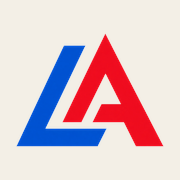
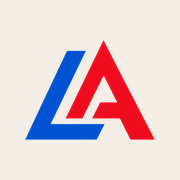
feat: rebrand site to Ledford Construction LLC
Replace public Associates lockups with Ledford Construction LLC,
install processed LC mark assets, and align header/footer colors
with the royal-blue and bold-red brand.

diff --git a/index.html b/index.html
@@ -3,17 +3,17 @@
 <head>
   <meta charset="utf-8" />
   <meta name="viewport" content="width=device-width, initial-scale=1, viewport-fit=cover" />
-  <title>Ledford &amp; Associates LLC | Commercial construction company since 1999</title>
+  <title>Ledford Construction LLC | Commercial construction company since 1999</title>
   <meta name="description" content="A commercial construction company since 1999. Metal stud framing, gypsum, acoustical ceilings, and thermal insulation." />
-  <link rel="icon" type="image/png" href="images/icon.png?v=2" />
-  <link rel="apple-touch-icon" href="images/apple-touch-icon.png" />
-  <meta property="og:title" content="Ledford &amp; Associates LLC | Commercial construction company since 1999" />
+  <link rel="icon" type="image/png" href="images/icon.png?v=5" />
+  <link rel="apple-touch-icon" href="images/apple-touch-icon.png?v=5" />
+  <meta property="og:title" content="Ledford Construction LLC | Commercial construction company since 1999" />
   <meta property="og:description" content="A commercial construction company since 1999. Metal stud framing, gypsum, acoustical ceilings, and thermal insulation." />
-  <meta property="og:image" content="images/icon.png?v=2" />
+  <meta property="og:image" content="images/icon.png?v=5" />
   <link rel="preconnect" href="https://fonts.googleapis.com" />
   <link rel="preconnect" href="https://fonts.gstatic.com" crossorigin />
-  <link href="https://fonts.googleapis.com/css2?family=Cormorant+Garamond:ital,wght@0,500;0,600;1,500&family=Outfit:wght@300;400;500;600&display=swap" rel="stylesheet" />
-  <link rel="stylesheet" href="styles.css?v=4" />
+  <link href="https://fonts.googleapis.com/css2?family=Cormorant+Garamond:ital,wght@0,500;0,600;1,500&family=Outfit:wght@300;400;500;600;700&display=swap" rel="stylesheet" />
+  <link rel="stylesheet" href="styles.css?v=5" />
 </head>
 <body>
 
@@ -24,9 +24,9 @@
       <a href="about.html">About</a>
       <a href="projects.html">Projects</a>
     </nav>
-    <a class="logo" href="index.html" aria-label="Ledford &amp; Associates home">
-      <img class="mark" src="images/icon.png?v=2" alt="" />
-      <span class="logo-text"><strong>Ledford</strong><em>&amp; Associates LLC</em></span>
+    <a class="logo" href="index.html" aria-label="Ledford Construction home">
+      <img class="mark" src="images/icon.png?v=5" alt="" />
+      <span class="logo-text"><strong>Ledford</strong><em>Construction LLC</em></span>
     </a>
     <div class="header-tools">
       <a class="header-phone" href="tel:+15722224219">(572) 222-4219</a>
@@ -67,7 +67,7 @@
         <h2>A contractor GCs can put on the schedule and leave there.</h2>
       </div>
       <div>
-        <p class="lead">Ledford &amp; Associates started with a small crew in Georgia and one job: install the work correctly, keep people safe, and finish when we said we would.</p>
+        <p class="lead">Ledford Construction started with a small crew in Georgia and one job: install the work correctly, keep people safe, and finish when we said we would.</p>
         <p>That is still the work. We are a bonded and insured commercial subcontractor for metal stud framing, gypsum, acoustical ceilings, and thermal insulation. Bonding capacity is $5 million single and $12 million aggregate. Current EMR is 0.87. The trades run together as one scope so the walls, board, ceilings, and insulation actually meet.</p>
         <p>We have installed in healthcare, retail, education, military, hospitality, and residential work. Leesburg is home. The jobs have always been commercial.</p>
       </div>
@@ -134,9 +134,9 @@
 <footer class="site-footer">
   <div class="wrap foot-grid">
     <div>
-      <a class="logo" href="index.html"><img class="mark" src="images/icon.png?v=2" alt="" /><span class="logo-text"><strong>Ledford</strong><em>&amp; Associates LLC</em></span></a>
+      <a class="logo" href="index.html"><img class="mark" src="images/icon.png?v=5" alt="" /><span class="logo-text"><strong>Ledford</strong><em>Construction LLC</em></span></a>
       <p style="margin-top:1rem;color:rgba(251,250,247,.7)">A commercial construction company since 1999. Metal framing, gypsum, ceilings, and insulation.</p>
-      <p class="footer-social"><a class="li-mark" href="https://www.linkedin.com/company/ledford-associates-llc/" target="_blank" rel="noopener noreferrer" aria-label="Ledford &amp; Associates on LinkedIn"><img src="images/linkedin.svg" width="28" height="28" alt="" /></a><a class="li-mark" href="https://www.facebook.com/share/1YXuvFNRWJ/" target="_blank" rel="noopener noreferrer" aria-label="Ledford &amp; Associates on Facebook"><img src="images/facebook.svg" width="28" height="28" alt="" /></a></p>
+      <p class="footer-social"><a class="li-mark" href="https://www.linkedin.com/company/ledford-associates-llc/" target="_blank" rel="noopener noreferrer" aria-label="Ledford Construction on LinkedIn"><img src="images/linkedin.svg" width="28" height="28" alt="" /></a><a class="li-mark" href="https://www.facebook.com/share/1YXuvFNRWJ/" target="_blank" rel="noopener noreferrer" aria-label="Ledford Construction on Facebook"><img src="images/facebook.svg" width="28" height="28" alt="" /></a></p>
     </div>
     <div>
       <h3 class="eyebrow" style="color:#e8b0a8">Georgia</h3>
@@ -152,7 +152,7 @@
     </div>
   </div>
   <div class="wrap legal">
-    <span>© 2026 Ledford &amp; Associates LLC. All rights reserved.</span>
+    <span>© 2026 Ledford Construction LLC. All rights reserved.</span>
     <span>Leesburg, Georgia</span>
   </div>
 </footer>

diff --git a/about.html b/about.html
@@ -3,17 +3,17 @@
 <head>
   <meta charset="utf-8" />
   <meta name="viewport" content="width=device-width, initial-scale=1, viewport-fit=cover" />
-  <title>About | Ledford &amp; Associates LLC</title>
-  <meta name="description" content="Professionals. Leaders. One team. Ledford &amp; Associates is a commercial subcontracting company led by President Lindy Ledford." />
-  <link rel="icon" type="image/png" href="images/icon.png?v=2" />
-  <link rel="apple-touch-icon" href="images/apple-touch-icon.png" />
-  <meta property="og:title" content="About | Ledford &amp; Associates LLC" />
-  <meta property="og:description" content="Professionals. Leaders. One team. Ledford &amp; Associates is a commercial subcontracting company led by President Lindy Ledford." />
-  <meta property="og:image" content="images/icon.png?v=2" />
+  <title>About | Ledford Construction LLC</title>
+  <meta name="description" content="Professionals. Leaders. One team. Ledford Construction is a commercial subcontracting company led by President Lindy Ledford." />
+  <link rel="icon" type="image/png" href="images/icon.png?v=5" />
+  <link rel="apple-touch-icon" href="images/apple-touch-icon.png?v=5" />
+  <meta property="og:title" content="About | Ledford Construction LLC" />
+  <meta property="og:description" content="Professionals. Leaders. One team. Ledford Construction is a commercial subcontracting company led by President Lindy Ledford." />
+  <meta property="og:image" content="images/icon.png?v=5" />
   <link rel="preconnect" href="https://fonts.googleapis.com" />
   <link rel="preconnect" href="https://fonts.gstatic.com" crossorigin />
-  <link href="https://fonts.googleapis.com/css2?family=Cormorant+Garamond:ital,wght@0,500;0,600;1,500&family=Outfit:wght@300;400;500;600&display=swap" rel="stylesheet" />
-  <link rel="stylesheet" href="styles.css?v=4" />
+  <link href="https://fonts.googleapis.com/css2?family=Cormorant+Garamond:ital,wght@0,500;0,600;1,500&family=Outfit:wght@300;400;500;600;700&display=swap" rel="stylesheet" />
+  <link rel="stylesheet" href="styles.css?v=5" />
 </head>
 <body>
 
@@ -24,9 +24,9 @@
       <a href="about.html" aria-current="page">About</a>
       <a href="projects.html">Projects</a>
     </nav>
-    <a class="logo" href="index.html" aria-label="Ledford &amp; Associates home">
-      <img class="mark" src="images/icon.png?v=2" alt="" />
-      <span class="logo-text"><strong>Ledford</strong><em>&amp; Associates LLC</em></span>
+    <a class="logo" href="index.html" aria-label="Ledford Construction home">
+      <img class="mark" src="images/icon.png?v=5" alt="" />
+      <span class="logo-text"><strong>Ledford</strong><em>Construction LLC</em></span>
     </a>
     <div class="header-tools">
       <a class="header-phone" href="tel:+15722224219">(572) 222-4219</a>
@@ -63,7 +63,7 @@
       <div>
         <p class="eyebrow">President</p>
         <h2>Lindy Ledford</h2>
-        <p>President of Ledford &amp; Associates LLC. Runs the company and the field from the Leesburg office.</p>
+        <p>President of Ledford Construction LLC. Runs the company and the field from the Leesburg office.</p>
       </div>
     </div>
   </section>
@@ -93,9 +93,9 @@
 <footer class="site-footer">
   <div class="wrap foot-grid">
     <div>
-      <a class="logo" href="index.html"><img class="mark" src="images/icon.png?v=2" alt="" /><span class="logo-text"><strong>Ledford</strong><em>&amp; Associates LLC</em></span></a>
+      <a class="logo" href="index.html"><img class="mark" src="images/icon.png?v=5" alt="" /><span class="logo-text"><strong>Ledford</strong><em>Construction LLC</em></span></a>
       <p style="margin-top:1rem;color:rgba(251,250,247,.7)">A commercial construction company since 1999. Metal framing, gypsum, ceilings, and insulation.</p>
-      <p class="footer-social"><a class="li-mark" href="https://www.linkedin.com/company/ledford-associates-llc/" target="_blank" rel="noopener noreferrer" aria-label="Ledford &amp; Associates on LinkedIn"><img src="images/linkedin.svg" width="28" height="28" alt="" /></a><a class="li-mark" href="https://www.facebook.com/share/1YXuvFNRWJ/" target="_blank" rel="noopener noreferrer" aria-label="Ledford &amp; Associates on Facebook"><img src="images/facebook.svg" width="28" height="28" alt="" /></a></p>
+      <p class="footer-social"><a class="li-mark" href="https://www.linkedin.com/company/ledford-associates-llc/" target="_blank" rel="noopener noreferrer" aria-label="Ledford Construction on LinkedIn"><img src="images/linkedin.svg" width="28" height="28" alt="" /></a><a class="li-mark" href="https://www.facebook.com/share/1YXuvFNRWJ/" target="_blank" rel="noopener noreferrer" aria-label="Ledford Construction on Facebook"><img src="images/facebook.svg" width="28" height="28" alt="" /></a></p>
     </div>
     <div>
       <h3 class="eyebrow" style="color:#e8b0a8">Georgia</h3>
@@ -111,7 +111,7 @@
     </div>
   </div>
   <div class="wrap legal">
-    <span>© 2026 Ledford &amp; Associates LLC. All rights reserved.</span>
+    <span>© 2026 Ledford Construction LLC. All rights reserved.</span>
     <span>Leesburg, Georgia</span>
   </div>
 </footer>

diff --git a/contact.html b/contact.html
@@ -3,17 +3,17 @@
 <head>
   <meta charset="utf-8" />
   <meta name="viewport" content="width=device-width, initial-scale=1, viewport-fit=cover" />
-  <title>Contact | Ledford &amp; Associates LLC</title>
-  <meta name="description" content="Request a bid from Ledford &amp; Associates in Leesburg, Georgia." />
-  <link rel="icon" type="image/png" href="images/icon.png?v=2" />
-  <link rel="apple-touch-icon" href="images/apple-touch-icon.png" />
-  <meta property="og:title" content="Contact | Ledford &amp; Associates LLC" />
-  <meta property="og:description" content="Request a bid from Ledford &amp; Associates in Leesburg, Georgia." />
-  <meta property="og:image" content="images/icon.png?v=2" />
+  <title>Contact | Ledford Construction LLC</title>
+  <meta name="description" content="Request a bid from Ledford Construction in Leesburg, Georgia." />
+  <link rel="icon" type="image/png" href="images/icon.png?v=5" />
+  <link rel="apple-touch-icon" href="images/apple-touch-icon.png?v=5" />
+  <meta property="og:title" content="Contact | Ledford Construction LLC" />
+  <meta property="og:description" content="Request a bid from Ledford Construction in Leesburg, Georgia." />
+  <meta property="og:image" content="images/icon.png?v=5" />
   <link rel="preconnect" href="https://fonts.googleapis.com" />
   <link rel="preconnect" href="https://fonts.gstatic.com" crossorigin />
-  <link href="https://fonts.googleapis.com/css2?family=Cormorant+Garamond:ital,wght@0,500;0,600;1,500&family=Outfit:wght@300;400;500;600&display=swap" rel="stylesheet" />
-  <link rel="stylesheet" href="styles.css?v=4" />
+  <link href="https://fonts.googleapis.com/css2?family=Cormorant+Garamond:ital,wght@0,500;0,600;1,500&family=Outfit:wght@300;400;500;600;700&display=swap" rel="stylesheet" />
+  <link rel="stylesheet" href="styles.css?v=5" />
 </head>
 <body>
 
@@ -24,9 +24,9 @@
       <a href="about.html">About</a>
       <a href="projects.html">Projects</a>
     </nav>
-    <a class="logo" href="index.html" aria-label="Ledford &amp; Associates home">
-      <img class="mark" src="images/icon.png?v=2" alt="" />
-      <span class="logo-text"><strong>Ledford</strong><em>&amp; Associates LLC</em></span>
+    <a class="logo" href="index.html" aria-label="Ledford Construction home">
+      <img class="mark" src="images/icon.png?v=5" alt="" />
+      <span class="logo-text"><strong>Ledford</strong><em>Construction LLC</em></span>
     </a>
     <div class="header-tools">
       <a class="header-phone" href="tel:+15722224219">(572) 222-4219</a>
@@ -126,9 +126,9 @@
 <footer class="site-footer">
   <div class="wrap foot-grid">
     <div>
-      <a class="logo" href="index.html"><img class="mark" src="images/icon.png?v=2" alt="" /><span class="logo-text"><strong>Ledford</strong><em>&amp; Associates LLC</em></span></a>
+      <a class="logo" href="index.html"><img class="mark" src="images/icon.png?v=5" alt="" /><span class="logo-text"><strong>Ledford</strong><em>Construction LLC</em></span></a>
       <p style="margin-top:1rem;color:rgba(251,250,247,.7)">A commercial construction company since 1999. Metal framing, gypsum, ceilings, and insulation.</p>
-      <p class="footer-social"><a class="li-mark" href="https://www.linkedin.com/company/ledford-associates-llc/" target="_blank" rel="noopener noreferrer" aria-label="Ledford &amp; Associates on LinkedIn"><img src="images/linkedin.svg" width="28" height="28" alt="" /></a><a class="li-mark" href="https://www.facebook.com/share/1YXuvFNRWJ/" target="_blank" rel="noopener noreferrer" aria-label="Ledford &amp; Associates on Facebook"><img src="images/facebook.svg" width="28" height="28" alt="" /></a></p>
+      <p class="footer-social"><a class="li-mark" href="https://www.linkedin.com/company/ledford-associates-llc/" target="_blank" rel="noopener noreferrer" aria-label="Ledford Construction on LinkedIn"><img src="images/linkedin.svg" width="28" height="28" alt="" /></a><a class="li-mark" href="https://www.facebook.com/share/1YXuvFNRWJ/" target="_blank" rel="noopener noreferrer" aria-label="Ledford Construction on Facebook"><img src="images/facebook.svg" width="28" height="28" alt="" /></a></p>
     </div>
     <div>
       <h3 class="eyebrow" style="color:#e8b0a8">Georgia</h3>
@@ -144,7 +144,7 @@
     </div>
   </div>
   <div class="wrap legal">
-    <span>© 2026 Ledford &amp; Associates LLC. All rights reserved.</span>
+    <span>© 2026 Ledford Construction LLC. All rights reserved.</span>
     <span>Leesburg, Georgia</span>
   </div>
 </footer>

diff --git a/add-photos.html b/add-photos.html
@@ -4,17 +4,17 @@
   <meta charset="utf-8" />
   <meta name="robots" content="noindex,nofollow" />
   <meta name="viewport" content="width=device-width, initial-scale=1, viewport-fit=cover" />
-  <title>Add photos | Ledford &amp; Associates LLC</title>
+  <title>Add photos | Ledford Construction LLC</title>
   <meta name="description" content="A collection of commercial construction work: framing, gypsum, ceilings, and insulation." />
-  <link rel="icon" type="image/png" href="images/icon.png?v=2" />
-  <link rel="apple-touch-icon" href="images/apple-touch-icon.png" />
-  <meta property="og:title" content="Add photos | Ledford &amp; Associates LLC" />
+  <link rel="icon" type="image/png" href="images/icon.png?v=5" />
+  <link rel="apple-touch-icon" href="images/apple-touch-icon.png?v=5" />
+  <meta property="og:title" content="Add photos | Ledford Construction LLC" />
   <meta property="og:description" content="A collection of commercial construction work: framing, gypsum, ceilings, and insulation." />
-  <meta property="og:image" content="images/icon.png?v=2" />
+  <meta property="og:image" content="images/icon.png?v=5" />
   <link rel="preconnect" href="https://fonts.googleapis.com" />
   <link rel="preconnect" href="https://fonts.gstatic.com" crossorigin />
-  <link href="https://fonts.googleapis.com/css2?family=Cormorant+Garamond:ital,wght@0,500;0,600;1,500&family=Outfit:wght@300;400;500;600&display=swap" rel="stylesheet" />
-  <link rel="stylesheet" href="styles.css?v=4" />
+  <link href="https://fonts.googleapis.com/css2?family=Cormorant+Garamond:ital,wght@0,500;0,600;1,500&family=Outfit:wght@300;400;500;600;700&display=swap" rel="stylesheet" />
+  <link rel="stylesheet" href="styles.css?v=5" />
 </head>
 <body>
 
@@ -25,9 +25,9 @@
       <a href="about.html">About</a>
       <a href="projects.html" >Projects</a>
     </nav>
-    <a class="logo" href="index.html" aria-label="Ledford &amp; Associates home">
-      <img class="mark" src="images/icon.png?v=2" alt="" />
-      <span class="logo-text"><strong>Ledford</strong><em>&amp; Associates LLC</em></span>
+    <a class="logo" href="index.html" aria-label="Ledford Construction home">
+      <img class="mark" src="images/icon.png?v=5" alt="" />
+      <span class="logo-text"><strong>Ledford</strong><em>Construction LLC</em></span>
     </a>
     <div class="header-tools">
       <a class="header-phone" href="tel:+15722224219">(572) 222-4219</a>
@@ -64,9 +64,9 @@
 <footer class="site-footer">
   <div class="wrap foot-grid">
     <div>
-      <a class="logo" href="index.html"><img class="mark" src="images/icon.png?v=2" alt="" /><span class="logo-text"><strong>Ledford</strong><em>&amp; Associates LLC</em></span></a>
+      <a class="logo" href="index.html"><img class="mark" src="images/icon.png?v=5" alt="" /><span class="logo-text"><strong>Ledford</strong><em>Construction LLC</em></span></a>
       <p style="margin-top:1rem;color:rgba(251,250,247,.7)">A commercial construction company since 1999. Metal framing, gypsum, ceilings, and insulation.</p>
-      <p class="footer-social"><a class="li-mark" href="https://www.linkedin.com/company/ledford-associates-llc/" target="_blank" rel="noopener noreferrer" aria-label="Ledford &amp; Associates on LinkedIn"><img src="images/linkedin.svg" width="28" height="28" alt="" /></a><a class="li-mark" href="https://www.facebook.com/share/1YXuvFNRWJ/" target="_blank" rel="noopener noreferrer" aria-label="Ledford &amp; Associates on Facebook"><img src="images/facebook.svg" width="28" height="28" alt="" /></a></p>
+      <p class="footer-social"><a class="li-mark" href="https://www.linkedin.com/company/ledford-associates-llc/" target="_blank" rel="noopener noreferrer" aria-label="Ledford Construction on LinkedIn"><img src="images/linkedin.svg" width="28" height="28" alt="" /></a><a class="li-mark" href="https://www.facebook.com/share/1YXuvFNRWJ/" target="_blank" rel="noopener noreferrer" aria-label="Ledford Construction on Facebook"><img src="images/facebook.svg" width="28" height="28" alt="" /></a></p>
     </div>
     <div>
       <h3 class="eyebrow" style="color:#e8b0a8">Georgia</h3>
@@ -82,7 +82,7 @@
     </div>
   </div>
   <div class="wrap legal">
-    <span>© 2026 Ledford &amp; Associates LLC. All rights reserved.</span>
+    <span>© 2026 Ledford Construction LLC. All rights reserved.</span>
     <span>Leesburg, Georgia</span>
   </div>
 </footer>

diff --git a/projects.html b/projects.html
@@ -3,17 +3,17 @@
 <head>
   <meta charset="utf-8" />
   <meta name="viewport" content="width=device-width, initial-scale=1, viewport-fit=cover" />
-  <title>Projects | Ledford &amp; Associates LLC</title>
+  <title>Projects | Ledford Construction LLC</title>
   <meta name="description" content="Commercial construction projects. Request recent job references with your bid." />
-  <link rel="icon" type="image/png" href="images/icon.png?v=2" />
-  <link rel="apple-touch-icon" href="images/apple-touch-icon.png" />
-  <meta property="og:title" content="Projects | Ledford &amp; Associates LLC" />
+  <link rel="icon" type="image/png" href="images/icon.png?v=5" />
+  <link rel="apple-touch-icon" href="images/apple-touch-icon.png?v=5" />
+  <meta property="og:title" content="Projects | Ledford Construction LLC" />
   <meta property="og:description" content="Commercial construction projects. Request recent job references with your bid." />
-  <meta property="og:image" content="images/icon.png?v=2" />
+  <meta property="og:image" content="images/icon.png?v=5" />
   <link rel="preconnect" href="https://fonts.googleapis.com" />
   <link rel="preconnect" href="https://fonts.gstatic.com" crossorigin />
-  <link href="https://fonts.googleapis.com/css2?family=Cormorant+Garamond:ital,wght@0,500;0,600;1,500&family=Outfit:wght@300;400;500;600&display=swap" rel="stylesheet" />
-  <link rel="stylesheet" href="styles.css?v=4" />
+  <link href="https://fonts.googleapis.com/css2?family=Cormorant+Garamond:ital,wght@0,500;0,600;1,500&family=Outfit:wght@300;400;500;600;700&display=swap" rel="stylesheet" />
+  <link rel="stylesheet" href="styles.css?v=5" />
 </head>
 <body>
 
@@ -24,9 +24,9 @@
       <a href="about.html">About</a>
       <a href="projects.html" aria-current="page">Projects</a>
     </nav>
-    <a class="logo" href="index.html" aria-label="Ledford &amp; Associates home">
-      <img class="mark" src="images/icon.png?v=2" alt="" />
-      <span class="logo-text"><strong>Ledford</strong><em>&amp; Associates LLC</em></span>
+    <a class="logo" href="index.html" aria-label="Ledford Construction home">
+      <img class="mark" src="images/icon.png?v=5" alt="" />
+      <span class="logo-text"><strong>Ledford</strong><em>Construction LLC</em></span>
     </a>
     <div class="header-tools">
       <a class="header-phone" href="tel:+15722224219">(572) 222-4219</a>
@@ -58,9 +58,9 @@
 <footer class="site-footer">
   <div class="wrap foot-grid">
     <div>
-      <a class="logo" href="index.html"><img class="mark" src="images/icon.png?v=2" alt="" /><span class="logo-text"><strong>Ledford</strong><em>&amp; Associates LLC</em></span></a>
+      <a class="logo" href="index.html"><img class="mark" src="images/icon.png?v=5" alt="" /><span class="logo-text"><strong>Ledford</strong><em>Construction LLC</em></span></a>
       <p style="margin-top:1rem;color:rgba(251,250,247,.7)">A commercial construction company since 1999. Metal framing, gypsum, ceilings, and insulation.</p>
-      <p class="footer-social"><a class="li-mark" href="https://www.linkedin.com/company/ledford-associates-llc/" target="_blank" rel="noopener noreferrer" aria-label="Ledford &amp; Associates on LinkedIn"><img src="images/linkedin.svg" width="28" height="28" alt="" /></a><a class="li-mark" href="https://www.facebook.com/share/1YXuvFNRWJ/" target="_blank" rel="noopener noreferrer" aria-label="Ledford &amp; Associates on Facebook"><img src="images/facebook.svg" width="28" height="28" alt="" /></a></p>
+      <p class="footer-social"><a class="li-mark" href="https://www.linkedin.com/company/ledford-associates-llc/" target="_blank" rel="noopener noreferrer" aria-label="Ledford Construction on LinkedIn"><img src="images/linkedin.svg" width="28" height="28" alt="" /></a><a class="li-mark" href="https://www.facebook.com/share/1YXuvFNRWJ/" target="_blank" rel="noopener noreferrer" aria-label="Ledford Construction on Facebook"><img src="images/facebook.svg" width="28" height="28" alt="" /></a></p>
     </div>
     <div>
       <h3 class="eyebrow" style="color:#e8b0a8">Georgia</h3>
@@ -76,7 +76,7 @@
     </div>
   </div>
   <div class="wrap legal">
-    <span>© 2026 Ledford &amp; Associates LLC. All rights reserved.</span>
+    <span>© 2026 Ledford Construction LLC. All rights reserved.</span>
     <span>Leesburg, Georgia</span>
   </div>
 </footer>

diff --git a/styles.css b/styles.css
@@ -1,9 +1,9 @@
-/* Ledford & Associates — 2026 rebuild */
+/* Ledford Construction LLC — 2026 rebuild */
 :root {
-  --navy: #0b1c33;
-  --navy-2: #142848;
-  --red: #c0392b;
-  --red-d: #9c2d22;
+  --navy: #0a1834;
+  --navy-2: #12264a;
+  --red: #e21824;
+  --red-d: #b8141c;
   --paper: #f3efe6;
   --paper-2: #e8e2d6;
   --ink: #12151a;
@@ -76,12 +76,12 @@ p { margin: 0 0 .7rem; color: var(--muted); }
   font-size: .95rem;
   letter-spacing: .06em;
   text-transform: uppercase;
-  color: #1e5fd6;
+  color: #0253d1;
 }
 .logo-text em {
-  font-style: italic;
+  font-style: normal;
   font-size: .58rem;
-  letter-spacing: .14em;
+  letter-spacing: .18em;
   text-transform: uppercase;
   font-weight: 600;
   color: var(--red);
@@ -165,7 +165,7 @@ p { margin: 0 0 .7rem; color: var(--muted); }
 .hero {
   min-height: 58vh;
   background:
-    linear-gradient(105deg, rgba(11,28,51,.88) 0%, rgba(11,28,51,.62) 46%, rgba(11,28,51,.42) 100%),
+    linear-gradient(105deg, rgba(10,24,52,.88) 0%, rgba(10,24,52,.62) 46%, rgba(10,24,52,.42) 100%),
     url("images/hero.jpg") center 42%/cover no-repeat;
   color: var(--white);
   display: grid;
@@ -326,8 +326,8 @@ input:focus, textarea:focus { border-bottom-color: var(--red); }
 .site-footer a:hover { color: var(--white); }
 .foot-grid { display: grid; grid-template-columns: 1.2fr 1fr 1fr 1fr; gap: 2rem; }
 .site-footer .logo .mark { height: 38px; }
-.site-footer .logo-text strong { color: #8cb4ff; }
-.site-footer .logo-text em { color: #e8b0a8; }
+.site-footer .logo-text strong { color: #6ea6ff; }
+.site-footer .logo-text em { color: #ff6b6b; }
 .legal { margin-top: 1.4rem; padding-top: .9rem; border-top: 1px solid rgba(255,255,255,.12); color: rgba(251,250,247,.5); font-size: .78rem; display: flex; justify-content: space-between; gap: 1rem; flex-wrap: wrap; }
 
 .page-hero { padding: 1.6rem 0 .8rem; }

diff --git a/contractors.html b/contractors.html
@@ -4,7 +4,7 @@
   <meta charset="utf-8" />
   <meta http-equiv="refresh" content="0; url=about.html#partners" />
   <link rel="canonical" href="about.html#partners" />
-  <title>Partners | Ledford &amp; Associates LLC</title>
+  <title>Partners | Ledford Construction LLC</title>
   <script>location.replace("about.html#partners");</script>
 </head>
 <body>

diff --git a/README.md b/README.md
@@ -1,4 +1,4 @@
-# Ledford & Associates LLC
+# Ledford Construction LLC
 
 Static commercial construction site. Bid form posts to FormSubmit (`info@ledfordllc.com`).
 
